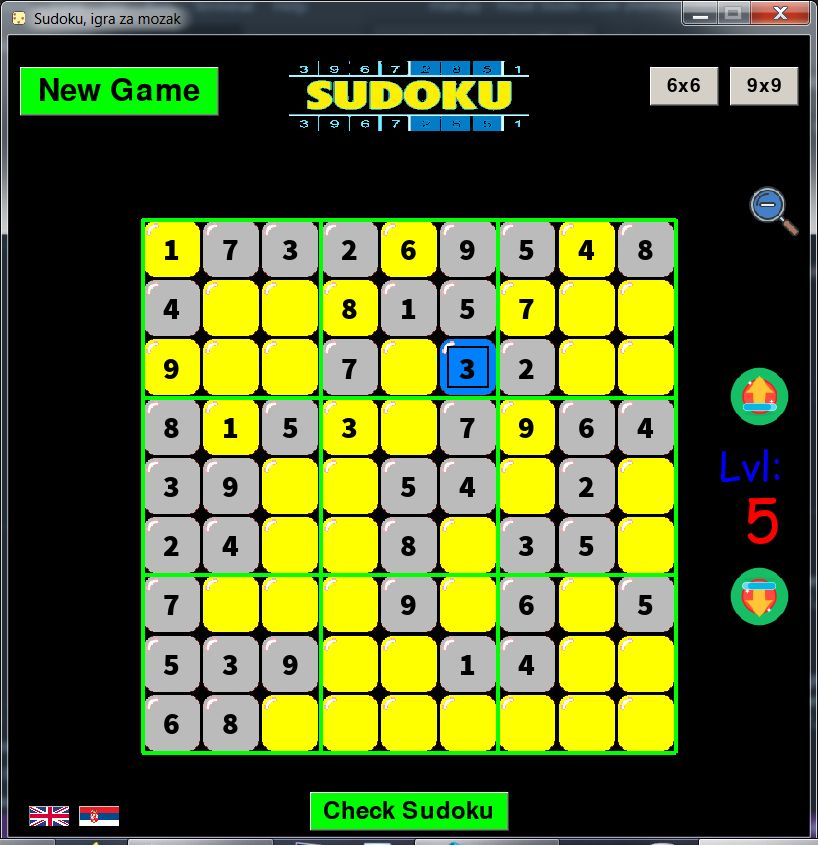
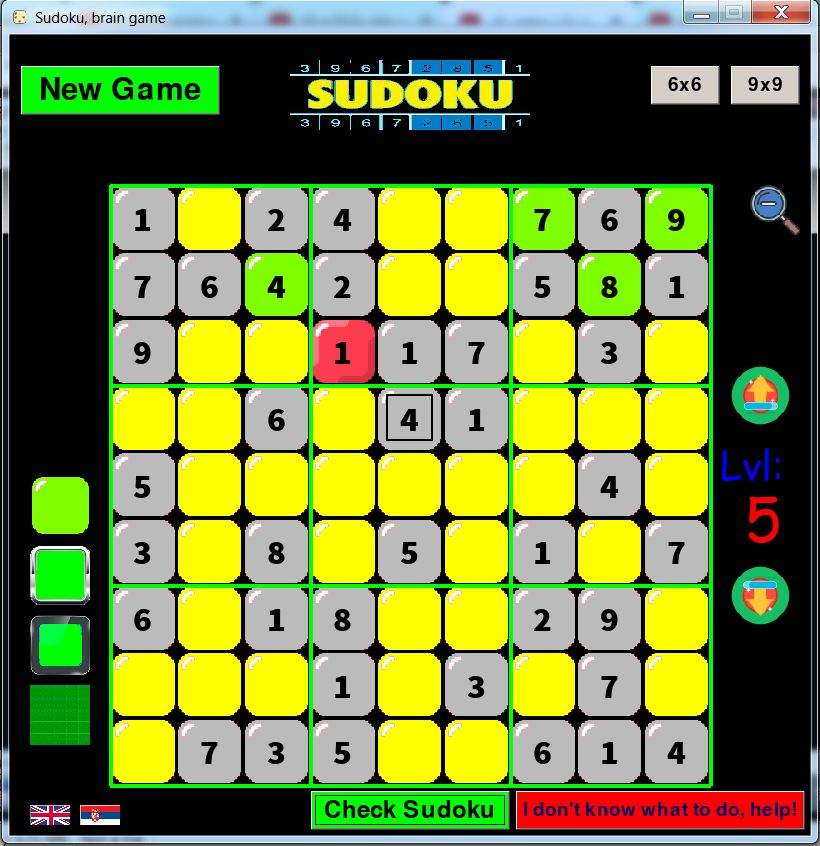
Fixed some win size issues.

diff --git a/game_gui_cls.py b/game_gui_cls.py
@@ -19,11 +19,11 @@ class GameGUI():
         pygame.font.init()
         self._stt.board_font_size, self._font_width, self._font_height = self._find_font_size_for_board()
         # Define buttons
-        self.btn_size9x9 = pygameButton.Button(self._win, (720, 30), 70, 40, "9x9", font_size=28)
-        self.btn_size6x6 = pygameButton.Button(self._win, (640, 30), 70, 40, "6x6", font_size=28)
-        self.btn_new_game = pygameButton.Button(self._win, (10, 30), 200, 50, self._stt.lang("new_game"), font_size=46, bg_color="green")
-        self.btn_check_sudoku = pygameButton.Button(self._win, (300, 755), 200, 40, self._stt.lang("check_sudoku"), font_size=36, bg_color="green")
-        self.btn_help = pygameButton.Button(self._win, (505, 755), 290, 40, self._stt.lang("hint"), font_size=28, bg_color="#FF0000", fg_color="#000066")
+        self.btn_size9x9 = pygameButton.Button(self._win, (int(720 * self._stt.win_scale_x), int(30 * self._stt.win_scale_y)), int(70 * self._stt.win_scale_x), int(40 * self._stt.win_scale_y), "9x9", font_size=int(28 * self._stt.win_scale_x))
+        self.btn_size6x6 = pygameButton.Button(self._win, (int(640 * self._stt.win_scale_x), int(30 * self._stt.win_scale_y)), int(70 * self._stt.win_scale_x), int(40 * self._stt.win_scale_y), "6x6", font_size=int(28 * self._stt.win_scale_x))
+        self.btn_new_game = pygameButton.Button(self._win, (int(10 * self._stt.win_scale_x), int(30 * self._stt.win_scale_y)), int(200 * self._stt.win_scale_x), int(50 * self._stt.win_scale_y), self._stt.lang("new_game"), font_size=int(46 * self._stt.win_scale_x), bg_color="green")
+        self.btn_check_sudoku = pygameButton.Button(self._win, (int(300 * self._stt.win_scale_x), int(755 * self._stt.win_scale_y)), int(200 * self._stt.win_scale_x), int(40 * self._stt.win_scale_y), self._stt.lang("check_sudoku"), font_size=int(36 * self._stt.win_scale_x), bg_color="green")
+        self.btn_help = pygameButton.Button(self._win, (int(505 * self._stt.win_scale_x), int(755 * self._stt.win_scale_y)), int(290 * self._stt.win_scale_x), int(40 * self._stt.win_scale_y), self._stt.lang("hint"), font_size=int(28 * self._stt.win_scale_x), bg_color="#FF0000", fg_color="#000066")
 
     def update_gui(self):
         # Find font size
@@ -73,53 +73,53 @@ class GameGUI():
         img_title = pygame.image.load("images/title.png")
         img_title = pygame.transform.scale(img_title, (240, 70))
         rect_title = img_title.get_rect()
-        rect_title.x = 280
-        rect_title.y = 25
+        rect_title.x = int(280 * self._stt.win_scale_x)
+        rect_title.y = int(25 * self._stt.win_scale_y)
         self._win.blit(img_title, rect_title)
         # Draw board cell selection
         img_set0 = pygame.image.load("images/set0/correct.png")
         img_set0 = pygame.transform.scale(img_set0, (60, 60))
         rect_set0 = img_set0.get_rect()
-        rect_set0.x = 20
-        rect_set0.y = 440
+        rect_set0.x = int(20 * self._stt.win_scale_x)
+        rect_set0.y = int(440 * self._stt.win_scale_y)
         self._win.blit(img_set0, rect_set0)
         img_set1 = pygame.image.load("images/set1/correct.png")
         img_set1 = pygame.transform.scale(img_set1, (60, 60))
         rect_set1 = img_set1.get_rect()
-        rect_set1.x = 20
-        rect_set1.y = 510
+        rect_set1.x = int(20 * self._stt.win_scale_x)
+        rect_set1.y = int(510 * self._stt.win_scale_y)
         self._win.blit(img_set1, rect_set1)
         img_set2 = pygame.image.load("images/set2/correct.png")
         img_set2 = pygame.transform.scale(img_set2, (60, 60))
         rect_set2 = img_set2.get_rect()
-        rect_set2.x = 20
-        rect_set2.y = 580
+        rect_set2.x = int(20 * self._stt.win_scale_x)
+        rect_set2.y = int(580 * self._stt.win_scale_y)
         self._win.blit(img_set2, rect_set2)
         img_set3 = pygame.image.load("images/set3/correct.png")
         img_set3 = pygame.transform.scale(img_set3, (60, 60))
         rect_set3 = img_set0.get_rect()
-        rect_set3.x = 20
-        rect_set3.y = 650
+        rect_set3.x = int(20 * self._stt.win_scale_x)
+        rect_set3.y = int(650 * self._stt.win_scale_y)
         self._win.blit(img_set3, rect_set3)
         # Draw national flags for language change
         img_srbija = pygame.image.load("images/flag_serbia.png")
         img_srbija = pygame.transform.scale(img_srbija, (40, 20))
         rect_srbija = img_srbija.get_rect()
         rect_srbija.x = 70
-        rect_srbija.y = 770
+        rect_srbija.y = int(770 * self._stt.win_scale_y)
         self._win.blit(img_srbija, rect_srbija)
         img_uk = pygame.image.load("images/flag_uk.png")
         img_uk = pygame.transform.scale(img_uk, (40, 20))
         rect_uk = img_uk.get_rect()
         rect_uk.x = 20
-        rect_uk.y = 770
+        rect_uk.y = int(770 * self._stt.win_scale_y)
         self._win.blit(img_uk, rect_uk)
         # Zoom out button
         img_zoom_out = pygame.image.load("images/zoom_out.png")
         img_zoom_out = pygame.transform.scale(img_zoom_out, (50, 50))
         rect_zoom_out = img_zoom_out.get_rect()
-        rect_zoom_out.x = 740
-        rect_zoom_out.y = 150
+        rect_zoom_out.x = int(740 * self._stt.win_scale_x)
+        rect_zoom_out.y = int(150 * self._stt.win_scale_y)
         self._win.blit(img_zoom_out, rect_zoom_out)
         # Buttons
         self.btn_new_game.draw_button()
@@ -134,7 +134,7 @@ class GameGUI():
         # Level
         font = pygame.font.SysFont("Comic Sans MS", 40)
         text = font.render(self._stt.lang("level_msg"), 1, "blue")
-        self._win.blit(text, (710, 400))
+        self._win.blit(text, (int(710 * self._stt.win_scale_x), int(400 * self._stt.win_scale_y)))
         font = pygame.font.SysFont("Comic Sans MS", 60)
         if self._stt.game_level == 1:
             color = "green"
@@ -147,29 +147,29 @@ class GameGUI():
         elif self._stt.game_level == 5:
             color = "red"
         text = font.render(str(self._stt.game_level), 1, color)
-        self._win.blit(text, (735, 440))
+        self._win.blit(text, (int(735 * self._stt.win_scale_x), int(440 * self._stt.win_scale_y)))
         img_level_up = pygame.image.load("images/level_up.png")
         img_level_up = pygame.transform.scale(img_level_up, (60, 60))
         rect_level_up = img_zoom_out.get_rect()
-        rect_level_up.x = 720
-        rect_level_up.y = 330
+        rect_level_up.x = int(720 * self._stt.win_scale_x)
+        rect_level_up.y = int(330 * self._stt.win_scale_y)
         self._win.blit(img_level_up, rect_level_up)
         img_level_down = pygame.image.load("images/level_down.png")
         img_level_down = pygame.transform.scale(img_level_down, (60, 60))
         rect_level_down = img_zoom_out.get_rect()
-        rect_level_down.x = 720
-        rect_level_down.y = 530
+        rect_level_down.x = int(720 * self._stt.win_scale_x)
+        rect_level_down.y = int(530 * self._stt.win_scale_y)
         self._win.blit(img_level_down, rect_level_down)
         # If user is solved sudoku 
         if self._sudoku_solved:
             font = pygame.font.SysFont("Comic Sans MS", 40)
             text = font.render(self._stt.lang("user_solved_msg"), 1, "light green")
-            self._win.blit(text, (100, 95))
+            self._win.blit(text, (int(100 * self._stt.win_scale_x), int(95 * self._stt.win_scale_y)))
             img_end = pygame.image.load("images/end.png")
             img_end = pygame.transform.scale(img_end, (100, 200))
             rect_end = img_title.get_rect()
-            rect_end.x = 5
-            rect_end.y = 250
+            rect_end.x = int(5 * self._stt.win_scale_x)
+            rect_end.y = int(250 * self._stt.win_scale_y)
             self._win.blit(img_end, rect_end)
 
     def mouse_event_handler(self, event):
@@ -185,38 +185,38 @@ class GameGUI():
                     self._stt.selection_x = int(x_mouse_cell / self._stt.element_width)
                     self._stt.selection_y = int(y_mouse_cell / self._stt.element_height)
             # Zoom clicked
-            if x_mouse > 739 and x_mouse < 791 and y_mouse > 149 and y_mouse < 191:
+            if x_mouse > int(739 * self._stt.win_scale_x) and x_mouse < int(791 * self._stt.win_scale_x) and y_mouse > int(149 * self._stt.win_scale_y) and y_mouse < int(191 * self._stt.win_scale_y):
                 self._stt.game_surface_zoom_level += 1
             # Level UP clicked
-            if x_mouse > 719 and x_mouse < 781 and y_mouse > 329 and y_mouse < 391:
+            if x_mouse > int(719 * self._stt.win_scale_x) and x_mouse < int(781 * self._stt.win_scale_x) and y_mouse > int(329 * self._stt.win_scale_y) and y_mouse < int(391 * self._stt.win_scale_y):
                 old_level = self._stt.game_level
                 self._stt.game_level += 1
                 if old_level != self._stt.game_level:
                     self.start_new_game()
                     self._sudoku_solved = False
             # Level DOWN clicked
-            if x_mouse > 719 and x_mouse < 781 and y_mouse > 529 and y_mouse < 591:
+            if x_mouse > int(719 * self._stt.win_scale_x) and x_mouse < int(781 * self._stt.win_scale_x) and y_mouse > int(529 * self._stt.win_scale_y) and y_mouse < int(591 * self._stt.win_scale_y):
                 old_level = self._stt.game_level
                 self._stt.game_level -= 1
                 if old_level != self._stt.game_level:
                     self.start_new_game()
                     self._sudoku_solved = False
             # English flag clicked
-            if x_mouse > 19 and x_mouse < 61 and y_mouse > 769 and y_mouse < 791:
+            if x_mouse > int(19 * self._stt.win_scale_x) and x_mouse < int(61 * self._stt.win_scale_x) and y_mouse > int(769 * self._stt.win_scale_y) and y_mouse < int(791 * self._stt.win_scale_y):
                 self._stt.language = 0
                 pygame.display.set_caption(self._stt.lang("win_title"))
             # Serbian flag clicked
-            if x_mouse > 69 and x_mouse < 111 and y_mouse > 769 and y_mouse < 791:
+            if x_mouse > int(69 * self._stt.win_scale_x) and x_mouse < int(111 * self._stt.win_scale_x) and y_mouse > int(769 * self._stt.win_scale_y) and y_mouse < int(791 * self._stt.win_scale_y):
                 self._stt.language = 1
                 pygame.display.set_caption(self._stt.lang("win_title"))
             # Change cell buttons clicked
-            if x_mouse > 19 and x_mouse < 81 and y_mouse > 439 and y_mouse < 501:
+            if x_mouse > int(19 * self._stt.win_scale_x) and x_mouse < int(81 * self._stt.win_scale_x) and y_mouse > int(439 * self._stt.win_scale_y) and y_mouse < int(501 * self._stt.win_scale_y):
                 self._stt.buttons_image_folder = "images/set0/"
-            if x_mouse > 19 and x_mouse < 81 and y_mouse > 509 and y_mouse < 571:
+            if x_mouse > int(19 * self._stt.win_scale_x) and x_mouse < int(81 * self._stt.win_scale_x) and y_mouse > int(509 * self._stt.win_scale_y) and y_mouse < int(571 * self._stt.win_scale_y):
                 self._stt.buttons_image_folder = "images/set1/"
-            if x_mouse > 19 and x_mouse < 81 and y_mouse > 579 and y_mouse < 641:
+            if x_mouse > int(19 * self._stt.win_scale_x) and x_mouse < int(81 * self._stt.win_scale_x) and y_mouse > int(579 * self._stt.win_scale_y) and y_mouse < int(641 * self._stt.win_scale_y):
                 self._stt.buttons_image_folder = "images/set2/"
-            if x_mouse > 19 and x_mouse < 81 and y_mouse > 649 and y_mouse < 711:
+            if x_mouse > int(19 * self._stt.win_scale_x) and x_mouse < int(81 * self._stt.win_scale_x) and y_mouse > int(649 * self._stt.win_scale_y) and y_mouse < int(711 * self._stt.win_scale_y):
                 self._stt.buttons_image_folder = "images/set3/"
         # Events for buttons
         self.btn_new_game.event_handler(event)

diff --git a/settings_cls.py b/settings_cls.py
@@ -874,6 +874,16 @@ class Setting():
         else:
             raise ValueError("Color must have a value in HEX format (#XXXXXX) or RGB(XXX,XXX,XXX)")
 
+    @property
+    def win_scale_x(self) -> float:
+        value = self.win_size[0] / 800
+        return value
+
+    @property
+    def win_scale_y(self) -> float:
+        value = self.win_size[1] / 800
+        return value
+
 
 
 if __name__ == "__main__":
@@ -959,7 +969,7 @@ if __name__ == "__main__":
 
         def define_config_items(self) -> list:
             # Config Items  [config_name, config_value, description]
-            config_items = [["_win_size", str(stt.win_size), "Minimum value is 50 pixels, recommended (800 x 800)"],
+            config_items = [["_win_size", str(stt.win_size), "Minimum value is 50 pixels, recommended (800 x 800). Please leave this value at 800x800. The code is not intended to work with other values, anything less than 800 may cause an error."],
                             ["_block size", str(stt.block_size), "Allowed values (6, 9). Number of elements in one block, recommended 9."],
                             ["_game_size", str(stt.game_size), "Allowed values (6, 9). Number of blocks in the table, recommended 9."],
                             ["_win_color", str(stt.win_color), "HEX value of game background color, default is black (#000000)."],

diff --git a/game_logic_cls.py b/game_logic_cls.py
@@ -35,7 +35,7 @@ class SudokuGameLogic():
             self._empty_user_cells()
             is_solved = self._solve_sudoku()
             count_try += 1
-            if count_try % 30 == 0:
+            if count_try % 50 == 0:
                 self._stt.game_level -= 1
 
     def _restore_table_to_created(self):

diff --git a/main.py b/main.py
@@ -59,3 +59,9 @@ if stt.save_data_to_file() != "":
 pygame.quit
 
 
+"""
+DsoftN (dsoftn@gmail.com)
+Danijel Nisevic
+29.03.2023.
+"""
+
